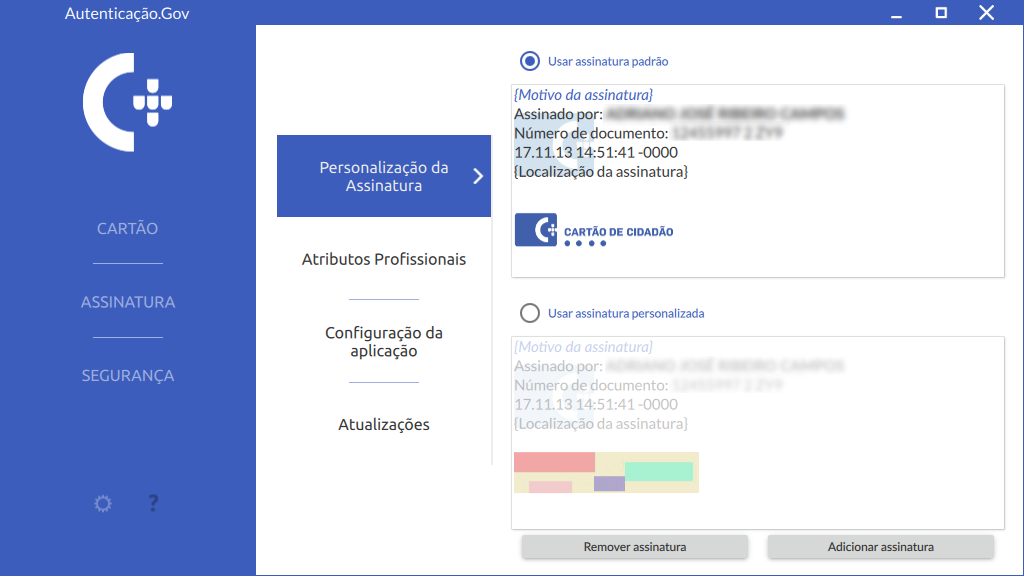
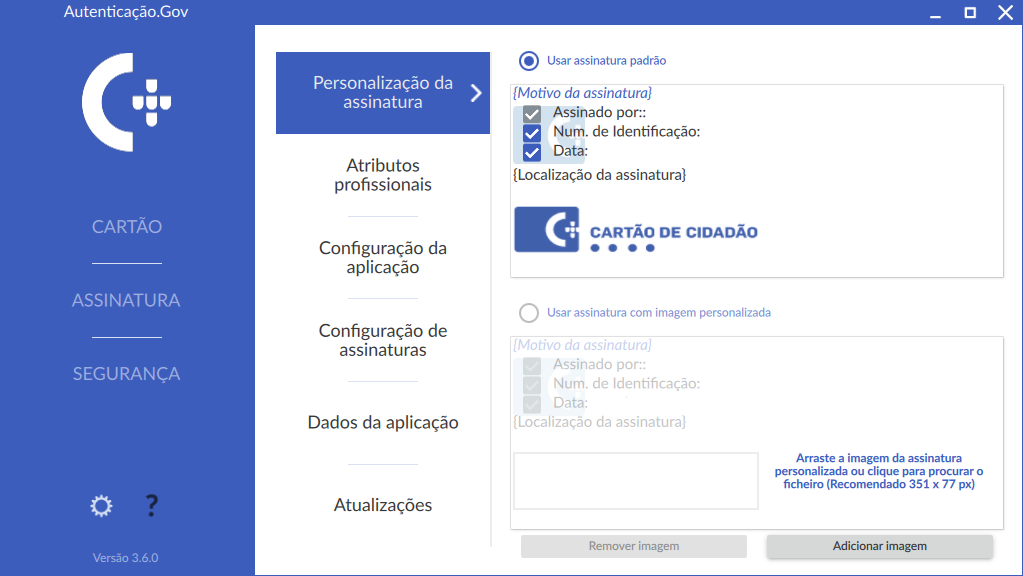
Update manuals and examples to demonstrate the new custom seal feature

diff --git a/SDK_Examples/Java/SignPDFCustomSize.java b/SDK_Examples/Java/SignPDFCustomSize.java
@@ -1,0 +1,123 @@
+import pt.gov.cartaodecidadao.*;
+
+//NOTE: This example has a method - setCustomSealSize(width, height) - that will only be available when the next version of the middleware is released.
+public class SignPDFCustomSize {
+
+    //This static block is needed to load the sdk library
+    static {
+        try {
+            System.loadLibrary("pteidlibj");
+        } catch (UnsatisfiedLinkError e) {
+            System.err.println("Native code library failed to load. \n" + e);
+            System.exit(1);
+        }
+    }
+    
+    //Main attributes needed for SDK functionalities
+    PTEID_ReaderSet readerSet = null;
+    PTEID_ReaderContext readerContext = null;
+    PTEID_EIDCard eidCard = null;
+    PTEID_EId eid = null;
+
+    /**
+     * Initializes the SDK and sets main variables
+     * @throws PTEID_Exception when there is some error with the SDK methods
+     */
+    public void initiate() throws PTEID_Exception {
+       
+        //Must always be called in the beginning of the program
+        PTEID_ReaderSet.initSDK();
+
+        //Gets the set of connected readers
+        readerSet = PTEID_ReaderSet.instance();
+
+        //Gets the first reader
+        //When multiple readers are connected, you should iterate through the various indexes with the methods getReaderName and getReaderByName
+        readerContext = readerSet.getReader();
+
+        //Gets the card instance
+        eidCard = readerContext.getEIDCard();
+        eid = eidCard.getID();
+    }
+
+    /**
+     * Releases the SDK (must always be done at the end of the program)
+     */
+    public void release() {
+
+        try {
+            PTEID_ReaderSet.releaseSDK();
+        } catch (PTEID_Exception ex) {
+            System.out.println("Caught exception in some SDK method. Error: " + ex.GetMessage());
+        }
+    }
+
+    /**
+     * Signs a pdf file
+     * @param input_file The path of the document to be signed
+     * @param output_file The path for the signed document
+     * @throws PTEID_Exception
+     */
+    public void sign(String input_file, String output_file) throws PTEID_Exception {
+
+        //To sign a document you must initialize an instance of PTEID_PDFSignature 
+        //It takes the path for the input file as argument
+        PTEID_PDFSignature signature = new PTEID_PDFSignature(input_file);
+
+        //Set the signature level: BASIC/TIMESTAMP/LT/LTV - see SDK manual for details
+        signature.setSignatureLevel(PTEID_SignatureLevel.PTEID_LEVEL_BASIC);
+
+        //You can set the location and reason of signature by simply changing this strings
+        String location = "Lisboa, Portugal";
+        String reason = "Concordo com o conteudo do documento";
+
+        //The page and coordinates where the signature will be printed
+        int page = 1;
+        double pos_x = 0.1;
+        double pos_y = 0.1;
+
+        //You can set custom dimensions for your visible seal by using this method. 
+        //The first argument is the width and the second is the height of the seal.
+        signature.setCustomSealSize(200, 200);
+        
+        //To actually sign the document you invoke this method, your authentication PIN will be requested
+        //After this you can check the signed document in the path provided
+        eidCard.SignPDF(signature, page, pos_x, pos_y, location, reason, output_file);
+    }
+
+    public void start(String[] args) {
+
+        try {
+            initiate();
+
+            System.out.println("Citizen name:                " + eid.getGivenName() + " " + eid.getSurname());
+            System.out.println("Card Number:                 " + eid.getDocumentNumber());
+            
+            sign(args[0], args[1]);
+        } 
+        catch (PTEID_ExNoReader ex) {
+            System.out.println("No reader found.");
+        } 
+        catch (PTEID_ExNoCardPresent ex) {
+            System.out.println("No card inserted.");
+        } 
+        catch (PTEID_Exception ex) {
+            System.out.println("Caught exception in some SDK method. Error: " + ex.GetMessage());
+        }
+        catch (Exception ex) {
+            System.out.println("Exception caught: " + ex.getMessage());
+        }
+        finally {
+            release();
+        }
+    }
+
+    public static void main(String[] args) {
+        if (args.length != 2) {
+            System.out.println("Usage: SignPDFCustomSize [input_file] [output_file]");
+        }
+        else {
+            new SignPDFCustomSize().start(args);
+        }
+    }
+}

diff --git a/SDK_Examples/C#/Examples/SignFileCustomSize.cs b/SDK_Examples/C#/Examples/SignFileCustomSize.cs
@@ -1,0 +1,118 @@
+using System;
+using System.IO;
+using pt.portugal.eid;
+
+//NOTE: This example has a method - setCustomSealSize(width, height) - that will only be available when the next version of the middleware is released.
+namespace Examples
+{
+    class SignFile
+    {
+        //Main attributes needed for SDK functionalities
+        PTEID_ReaderSet readerSet = null;
+        PTEID_ReaderContext readerContext = null;
+        PTEID_EIDCard eidCard = null;
+        PTEID_EId eid = null;
+
+
+        /*
+         * Initializes the SDK and sets main variables
+         */
+        public void Initiate()
+        {
+            //Must always be called in the beginning of the program
+            PTEID_ReaderSet.initSDK();
+
+            //Gets the set of connected readers, if there is any inserted
+            readerSet = PTEID_ReaderSet.instance();
+
+            //Gets the first reader
+            //When multiple readers are connected, you should iterate through the various indexes with the methods getReaderName and getReaderByName
+            readerContext = readerSet.getReader();
+
+            //Gets the card instance
+            eidCard = readerContext.getEIDCard();
+            eid = eidCard.getID();
+        }
+
+        /*
+         * Releases the SDK (must always be done at the end of the program)
+         */
+        public void Release()
+        {
+            try
+            {
+                PTEID_ReaderSet.releaseSDK();
+            }
+            catch (PTEID_Exception ex)
+            {
+                Console.WriteLine(ex.Message);
+            }
+        }
+
+        /*
+         * Signs a pdf file
+         */
+        public void Sign(String input_file, String output_file)
+        {
+
+            //To sign a document you must initialize an instance of PTEID_PDFSignature 
+            //It takes the path for the input file as argument
+            PTEID_PDFSignature signature = new PTEID_PDFSignature(input_file);
+
+            //You can set the location and reason of signature by simply changing this strings
+            String location = "Lisboa, Portugal";
+            String reason = "Concordo com o conteudo do documento";
+
+            //The page number where the signature will be printed
+            int page = 1;
+
+            //The location in the page where the visible signature will be printed in percentage of page height/width
+            double pos_x = 0.1;
+            double pos_y = 0.1;
+
+            //You can set custom dimensions for your visible seal by using this method. 
+            //The first argument is the width and the second is the height of the seal.
+            signature.setCustomSealSize(200, 200);
+
+            //To actually sign the document you invoke this method, and the signature PIN will be requested in an SDK dialog
+            eidCard.SignPDF(signature, page, pos_x, pos_y, location, reason, output_file);
+
+            Console.WriteLine("File signed with success.");
+        }
+
+        public void start(string[] args)
+        {
+            try
+            {
+                Initiate();
+                Sign(args[0], args[1]);
+            }
+            catch (PTEID_ExNoReader)
+            {
+                Console.WriteLine("No reader found.");
+            }
+            catch (PTEID_ExNoCardPresent)
+            {
+                Console.WriteLine("No card inserted.");
+            }
+            catch (PTEID_Exception ex)
+            {
+                Console.WriteLine(ex.GetMessage());
+            }
+            catch (Exception ex)
+            {
+                Console.WriteLine(ex.Message);
+            }
+            finally
+            {
+                Release();
+                Console.ReadLine();
+            }
+        }
+
+        static void Main(string[] args)
+        {
+            new SignFile().start(args);
+        }
+    }
+}

diff --git a/SDK_Examples/C++/SignPDFCustomSize.cpp b/SDK_Examples/C++/SignPDFCustomSize.cpp
@@ -1,0 +1,66 @@
+#include "eidlib.h"
+#include "eidlibException.h"
+#include <iostream>
+
+using namespace eIDMW;
+
+
+//NOTE: This example has a method - setCustomSealSize(width, height) - that will only be available when the next version of the middleware is released.
+int main(int argc, char **argv) {
+
+    if (argc != 3) 
+    {
+        std::cout << "Usage: SignPDFCustomSize [input_file] [output_file]" << std::endl;
+        return -1;
+    }
+
+    const char* input_file = argv[1];
+    const char* output_file = argv[2];
+
+    try 
+    {
+        //Initializes SDK (must always be called in the beginning of the program)
+        PTEID_InitSDK();
+
+        PTEID_EIDCard& eidCard = PTEID_ReaderSet::instance().getReader().getEIDCard();
+
+        //To sign a document you must initialize an instance of PTEID_PDFSignature with the input file
+        PTEID_PDFSignature signature(input_file);        
+
+        //You can set the various signature levels by calling this method
+        signature.setSignatureLevel(PTEID_SignatureLevel::PTEID_LEVEL_TIMESTAMP);
+
+        //You can set the location and reason of signature by simply changing this strings
+        const char* location = "Lisboa, Portugal";
+        const char* reason = "Confirmo que li o documento e concordo com o seu conteudo, deste modo responsabilizando-me pelo mesmo";
+
+        //The page and coordinates where the signature will be printed
+        int page = 1;
+        double pos_x = 0.1;
+        double pos_y = 0.1;
+        
+        //You can set custom dimensions for your visible seal by using this method. 
+        //The first argument is the width and the second is the height of the seal.
+        signature.setCustomSealSize(200, 200);
+
+        //To actually sign the document you invoke this method, your authentication PIN will be requested
+        //After this you can check the signed document in the path provided
+        eidCard.SignPDF(signature, page, pos_x, pos_y, location, reason, output_file);
+    }
+    catch (PTEID_ExNoReader &e) 
+    {
+        std::cout << "No readers found!" << std::endl;
+    }
+    catch (PTEID_ExNoCardPresent &e) 
+    {
+        std::cout << "No card found in the reader!" << std::endl;
+    }
+    catch (PTEID_Exception &e) 
+    {
+        std::cout << "Caught exception in some SDK method. Error: " << e.GetMessage() << std::endl;
+    }
+    
+    //Releases SDK (must always be called at the end of the program)
+    PTEID_ReleaseSDK();
+    return 0;
+}

diff --git a/manual_sdk.md b/manual_sdk.md
@@ -1334,6 +1334,58 @@ eidCard.SignPDF(signature, page, pos_x, pos_y, location, reason, "/home/user/sig
 // (...) - Finalização
 ```
 
+### Customização do selo de assinatura visível
+
+Através do método `setCustomSealSize(width, height)`, é possível alterar as dimensões do selo de assinatura vísivel utilizando o SDK. Para tal, é só necessário chamar o método com as dimensões pretendidas, após inicializar uma instância de `PTEID_PDFSignature`. Este método pode ser chamado para a assinatura de um único ficheiro ou para multi-assinatura.
+Exemplo C++
+
+```c++
+// (...) - Inicialização
+
+//Inicializar assinatura
+PTEID_PDFSignature signature;
+
+// (...) - Adicionar ficheiros e outras configurações (motivo, localização, etc)
+
+
+//Para definir as dimensões do selo de assinatura é necessário invocar o seguinte método com as dimensões pretendidas. 
+signature.setCustomSealSize(200, 200);
+
+// (...) - Assinar e Finalização
+```
+
+Exemplo Java
+
+```java
+// (...) - Inicialização
+
+PTEID_PDFSignature signature = new PTEID_PDFSignature();
+
+// (...) - Adicionar ficheiros e outras configurações (motivo, localização, etc)
+
+//Para definir as dimensões do selo de assinatura é necessário invocar o seguinte método com as dimensões pretendidas. 
+signature.setCustomSealSize(200, 200);
+
+// (...) - Assinar e Finalização
+```
+
+Exemplo C#
+
+```c
+// (...) - Inicialização
+
+PTEID_PDFSignature signature = new PTEID_PDFSignature();
+
+// (...) - Adicionar ficheiros e outras configurações (motivo, localização, etc)
+
+
+//Para definir as dimensões do selo de assinatura é necessário invocar o seguinte método com as dimensões pretendidas. 
+signature.setCustomSealSize(200, 200);
+
+// (...) - Assinar e Finalização
+```
+
+É também possível escolher incluir, ou não, a data de assinatura e o número de identificação civil através da aplicação, no menu `Personalização de Assinatura`, selecionando as respetivas checkboxes, ou através do ficheiro `~/.config/pteid.conf`, modificando o valor de `signature_seal_options`. Estas alterações são depois refletidas no selo da assinatura através do SDK.
 
 ### Configurar o servidor de selo temporal
 

diff --git a/user_manual.md b/user_manual.md
@@ -622,9 +622,10 @@ secção “Escolha os ficheiros”, como podemos visualizar na imagem seguinte.
     serem assinados.
   - É possível remover ficheiros individualmente, utilizando o botão que se encontra junto ao nome
     de cada ficheiro, ou todos, pressionando o botão **Remover todos**.
+
 - **Pré-visualização da assinatura:** Permite visualizar o documento a ser assinado e ajustar a
-  posição do selo de assinatura, movendo-o para o locar pretendido. A pré-visualização existe apenas
-  para assinatura do tipo **PDF**.
+  posição e o tamanho do selo de assinatura, movendo-o para o local pretendido com as dimensões desejadas. A pré-visualização existe apenas
+  para assinatura do tipo **PDF**, sendo possível pre-visualizar qualquer um dos ficheiros de uma multi-assinatura através de um clique no nome do ficheiro na aplicação.
 
 - **Opções avançadas - Configurações:**
 
@@ -787,6 +788,8 @@ imagem do cartão do cidadão por uma imagem à escolha do utilizador.
 O botão **Adicionar assinatura** permite selecionar uma imagem que será utilizada na assinatura personalizada. Após adicionar uma imagem, esta página da aplicação permitirá selecionar a opção **Usar assinatura padrão** ou **Usar assinatura personalizada**, conforme a escolha do utilizador.
 
 O tamanho mínimo recomendado para a imagem é de 351 x 77px.
+
+É, também, possível escolher incluir, ou não, a data de assinatura e o número de identificação civil na assinatura. Para tal, basta selecionar as checkboxes pretendidas neste menu. 
 
 ![Ilustração: Personalização da Assinatura digital](Pictures/Autenticacao.Gov_personalizar_assinatura.png "Personalização da Assinatura digital"){:.center}
 
